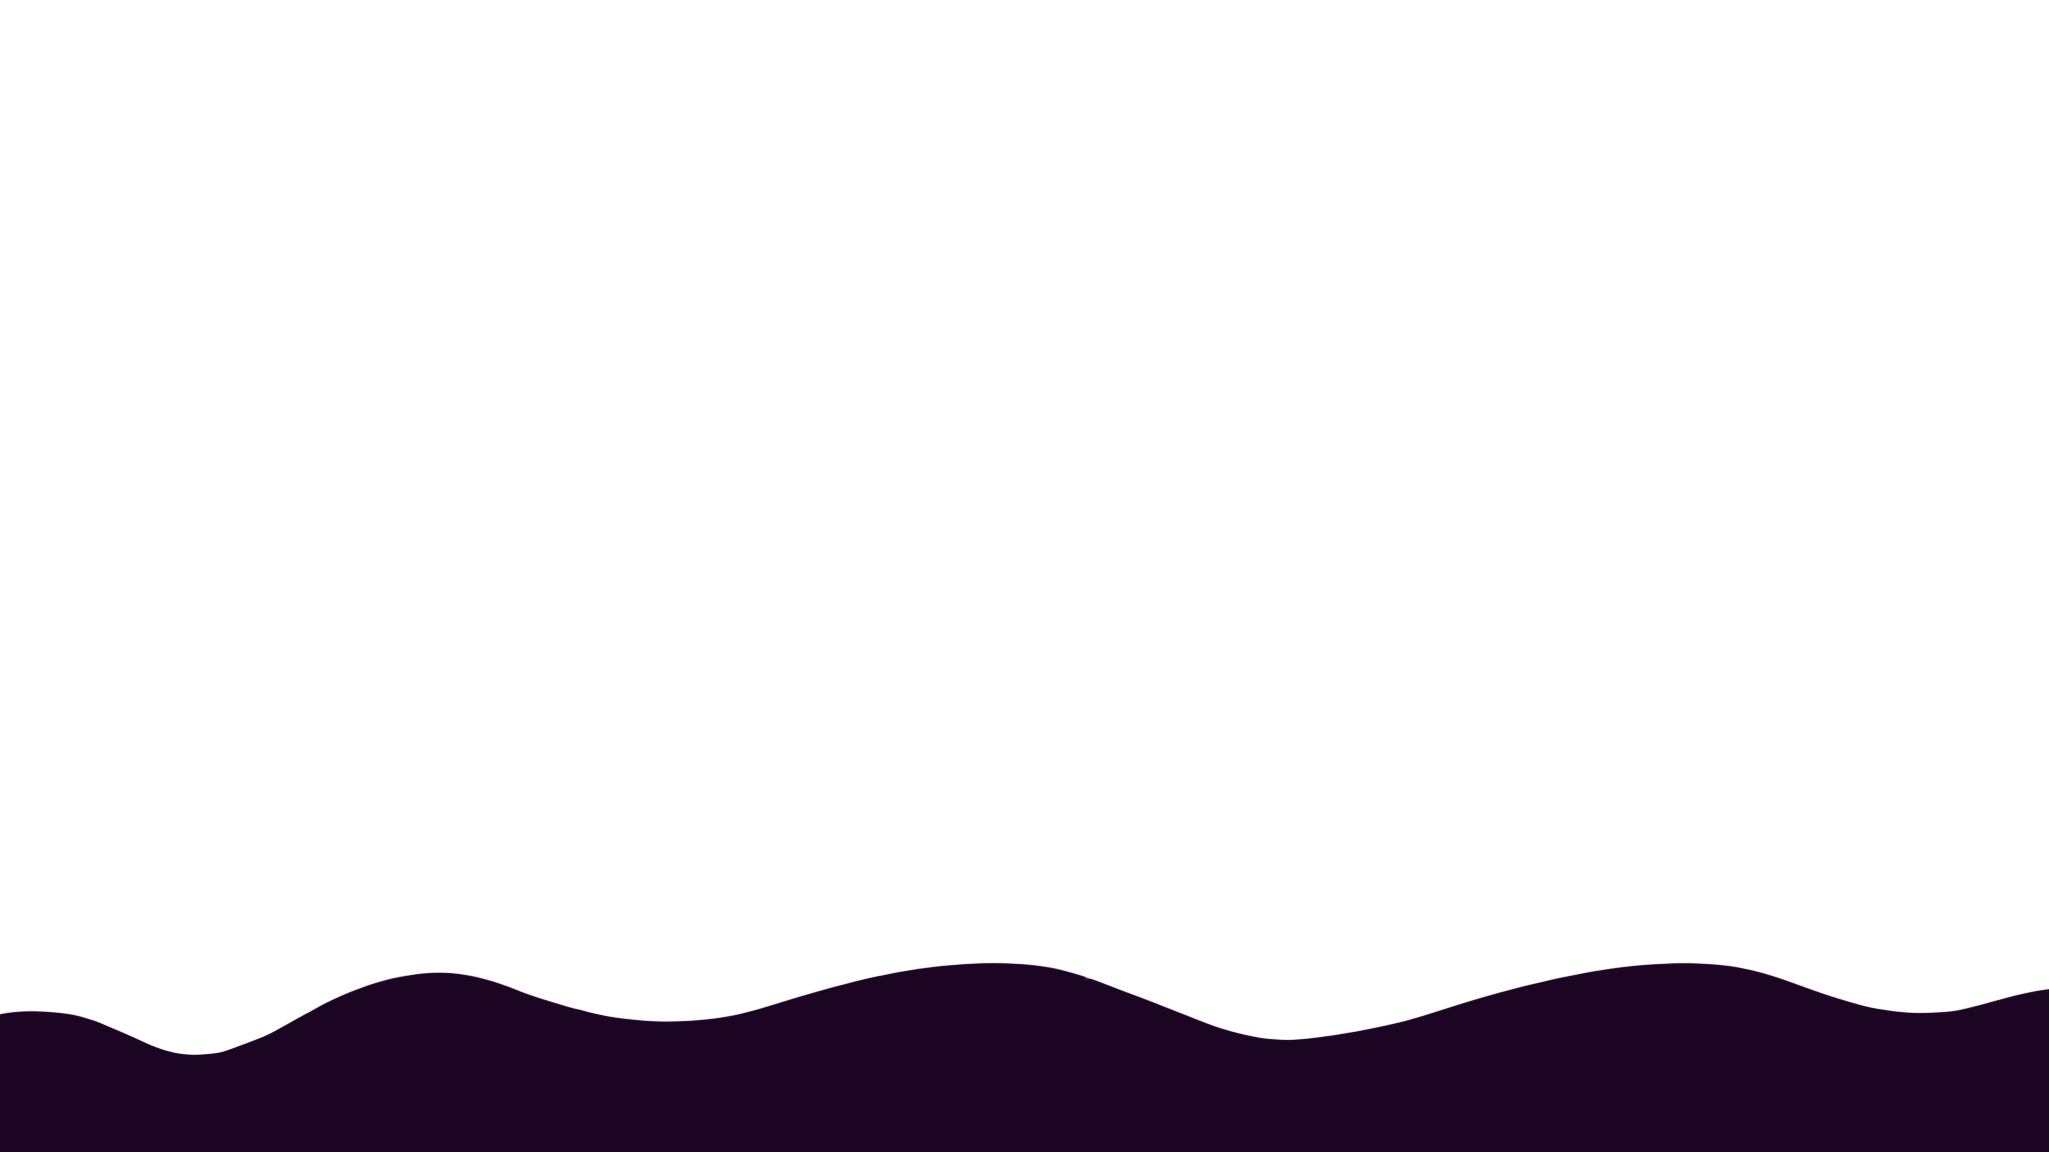
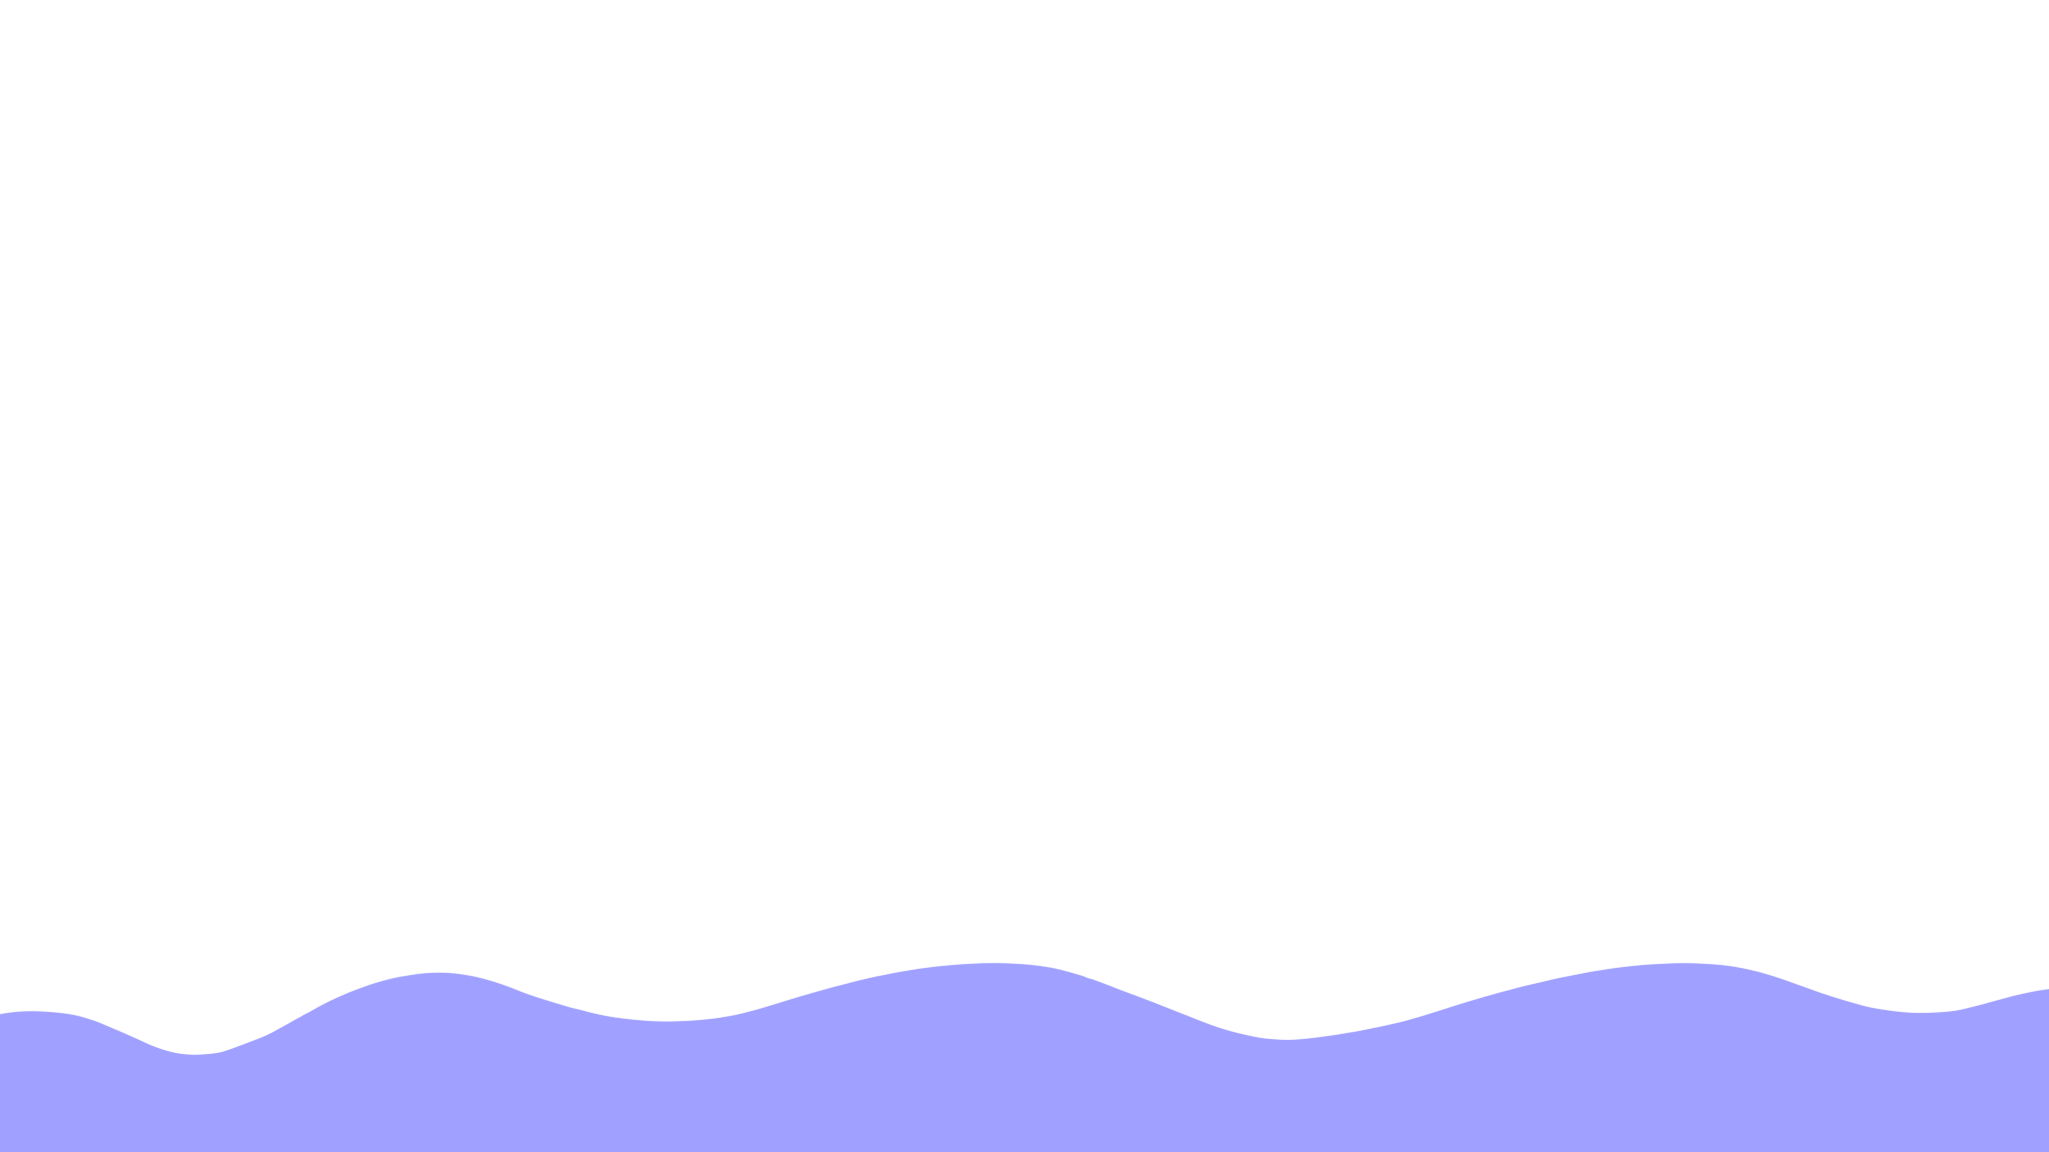
Light theme, ummmmmmmm

Changed region(s): [[0.0, 0.8125, 1.0, 1.0]]

diff --git a/styles.css b/styles.css
@@ -37,8 +37,8 @@ section img {
     pointer-events: none;
     filter: drop-shadow(0px, 20px, 10px, black );
     transform: scaleX(2);
-    /* -webkit-filter: drop-shadow(-2px -2px 9px #000000a5);
-    filter: drop-shadow(-2px -2px 9px #000000a5); */
+    /* -webkit-filter: drop-shadow(-2px -2px 50px #000000a5);
+    filter: drop-shadow(-2px -2px 50px #000000a5); */
 }
 
 
@@ -70,13 +70,14 @@ section .abhedya_container{
     /* font-size: 100px; */
     z-index: 3500;
     color: white;
-    margin-top: -150px;
+    margin-top: -80px;
     position: relative;
     top: 0;
     text-align: center;
 }
 section .abhedya_container h1{
-    font-family: 'Playfair Display', serif;
+    font-family: 'Righteous', cursive;
+    /* font-family: 'Playfair Display', serif; */
     font-size: 120px;
     margin-bottom: 50px ;
     text-shadow: 7px 4px 4px black;
@@ -87,53 +88,45 @@ section .abhedya_container p{
     font-size: 35px;
     font-weight: 600;
 }
-.btn {
-    padding: 1em 2.1em 1.1em;
-    border-radius: 3px;
-    margin: 8px 8px 8px 8px;
-    color: #fbdedb;
-    background-color: #fbdedb;
+button{
     display: inline-block;
-    background: #e74c3c;
-    -webkit-transition: 0.3s;
-    -moz-transition: 0.3s;
-    -o-transition: 0.3s;
-    transition: 0.3s;
-    font-family: sans-serif;
-    font-weight: 800;
-    font-size: .85em;
+    outline: none;
+    cursor: pointer;
+    font-size: 14px;
+    line-height: 1;
+    border-radius: 500px;
+    transition-property: background-color,border-color,color,box-shadow,filter;
+    transition-duration: .3s;
+    border: 1px solid transparent;
+    letter-spacing: 2px;
+    min-width: 160px;
     text-transform: uppercase;
+    white-space: normal;
+    font-weight: 700;
     text-align: center;
+    padding: 16px 14px 18px;
+    color: #ffffff;
+    box-shadow: inset 0 0 0 2px #ffffff;
+    background-color: transparent;
+    height: 48px;}
+.btn:hover{
+        color: rgb(0, 0, 0);
+        background-color: #ffffff;
+}
+.btn a{
     text-decoration: none;
-    -webkit-box-shadow: 0em -0.3rem 0em rgba(0, 0, 0, 0.1) inset;
-    -moz-box-shadow: 0em -0.3rem 0em rgba(0, 0, 0, 0.1) inset;
-    box-shadow: 0em -0.3rem 0em rgba(0, 0, 0, 0.1) inset;
-    color: black;
-    background-color: #d2d2d2;
-    position: relative;
+    color: white;
 }
-.btn:hover, .btn:focus {
-    opacity: 0.8;
-}
-.btn:active {
-    -webkit-transform: scale(0.80);
-    -moz-transform: scale(0.80);
-    -ms-transform: scale(0.80);
-    -o-transform: scale(0.80);
-    transform: scale(0.80);
-}
-.btn.block {
-    display: block !important;
-}
-.btn.circular {
-  border-radius: 50em !important;
+.btn:hover a{
+    text-decoration: none;
+    color: rgb(0, 0, 0);
 }
 
 
 .sec {
     position: relative;
     padding: 100px;
-    background: #1c0522;
+    background: #9fa0ff;
     text-align: center;
     
 }
@@ -252,7 +245,7 @@ section .abhedya_container p{
     list-style: none;
     text-align: center;
     overflow-x: hidden;
-    background-color: #1c0522;
+    background-color: #9fa0ff;
     
 }
 
@@ -321,7 +314,7 @@ ul li:nth-child(3){
     height: 85vh;
     margin: 0;
     padding: 0;
-    background-color: #6411AD;
+    background-color: #8E94F2;
     font-family: Helvetica;
     z-index: 100;
 }
@@ -455,7 +448,7 @@ ul li:nth-child(3){
     height: 100px;
     background: url(floating-wave-1.png);
     background-size: 1000px 100px;
-    background-color: #6411AD;
+    background-color: #8E94F2;
     animation: animate 10s linear infinite;
 }
 @keyframes animate {
@@ -540,7 +533,7 @@ ul li:nth-child(3){
     justify-content: space-around;
     flex-wrap: wrap;
   /*   flex-direction: column; */
-  background-color: #822FAF;
+  /* background-color: #822FAF; */
   }
   
   .head-card {
@@ -614,15 +607,22 @@ ul li:nth-child(3){
         font-size: 15px;
         max-height: 100px;
         overflow-y: scroll;
+        padding:0 10px ;
+        border-left: 2px solid white;
+        border-right: 2px solid white;
     }
     .sec {
         
         padding: 50px;
         
     }
-    section .abhedya_container{
-        font-size: 50px;
-    }
+section .abhedya_container h1{
+    font-size: 70px;
+}
+section .abhedya_container p{
+    font-size: 30px;
+}
+    
     #top_defence, #medium_defence, #bottom_defence{
         display: none;
     }

diff --git a/index.html b/index.html
@@ -12,6 +12,15 @@
     <link
         href="https://fonts.googleapis.com/css2?family=Playfair+Display:ital,wght@1,800&family=Quicksand&family=Roboto:wght@300&display=swap"
         rel="stylesheet">
+        <link href="https://fonts.googleapis.com/css2?family=Righteous&display=swap" rel="stylesheet">
+      
+<!-- <link rel="stylesheet" href="https://maxcdn.bootstrapcdn.com/bootstrap/3.4.1/css/bootstrap.min.css"> -->
+
+
+<!-- <script src="https://ajax.googleapis.com/ajax/libs/jquery/3.6.1/jquery.min.js"></script> -->
+
+
+<!-- <script src="https://maxcdn.bootstrapcdn.com/bootstrap/3.4.1/js/bootstrap.min.js"></script> -->
 </head>
 
 <body>
@@ -30,7 +39,7 @@
             <h1>ABHEDYA</h1>
             <p>Self defence knows no gender</p>
             <p>17 - 20 jan</p>
-            <a href="#fakeLink" class="btn circular">EXPLORE</a>
+            <button class="btn" id="btn"><a href="#sec">EXOLORE</a></button>
         </div>
 
 
@@ -105,7 +114,7 @@
         </div>
     </section>
     <div class="divider-wave-1"></div>
-
+    <footer style="width: 100%; height: 400px; background-color: #8187dc;"></footer>
 
     <script>
         let zero = document.getElementById('zero');
